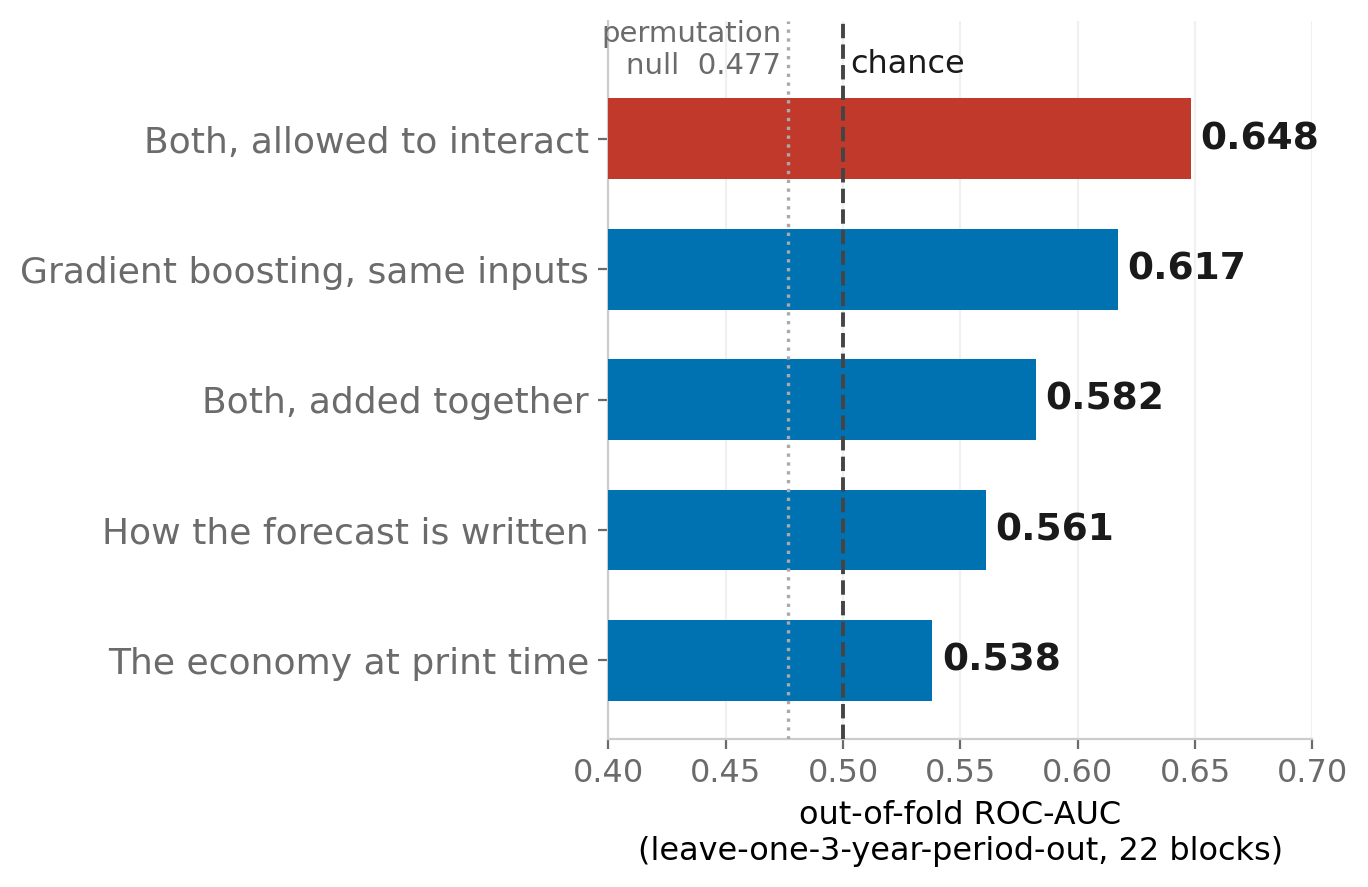
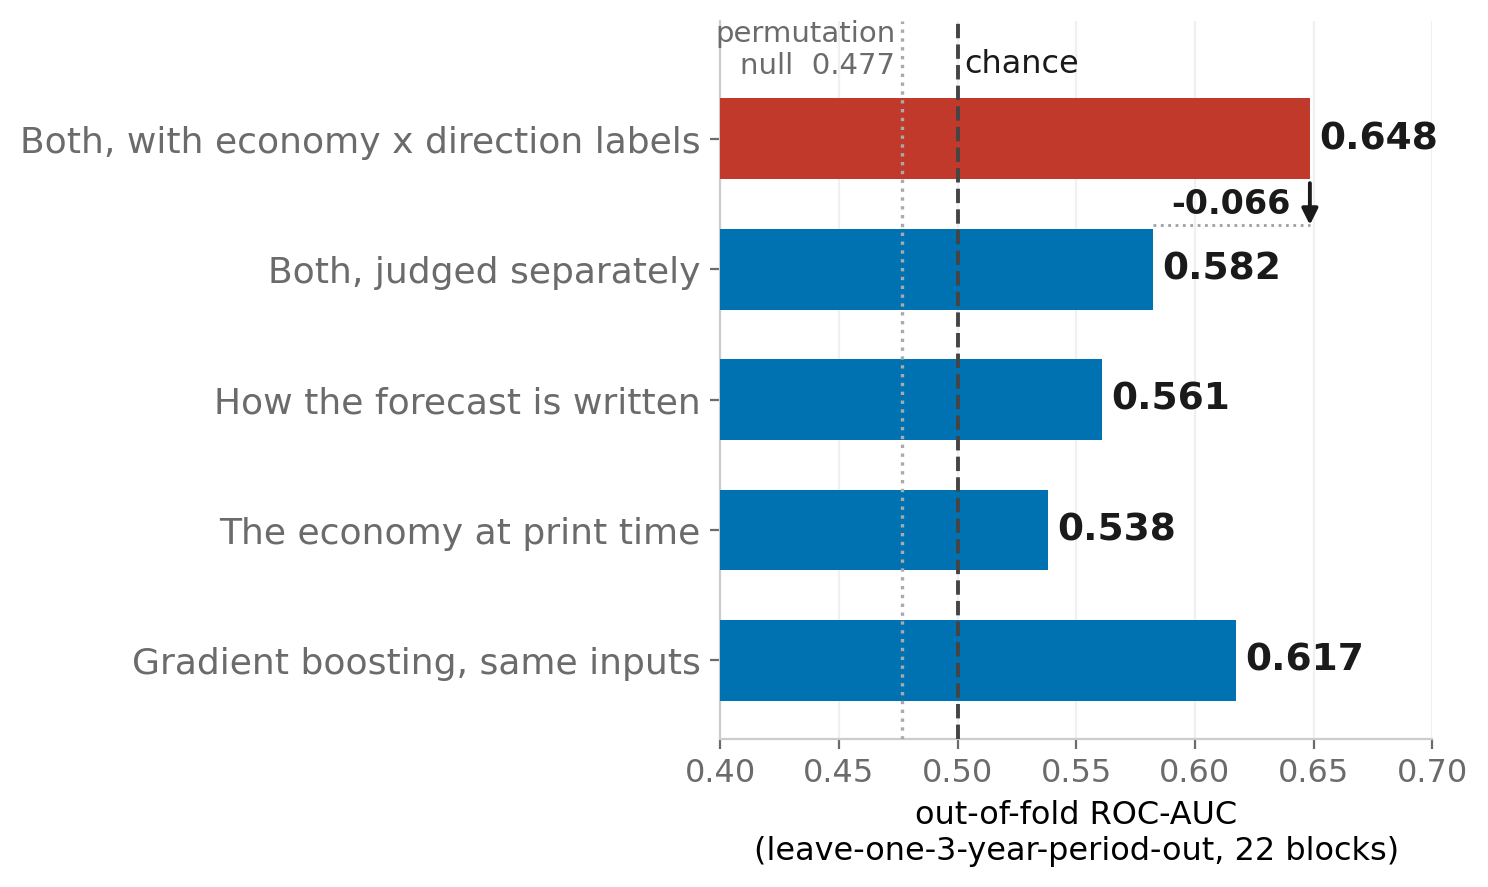
n

diff --git a/src/make_l1_ladder_figure.py b/src/make_l1_ladder_figure.py
@@ -50,9 +50,9 @@ plt.rcParams.update({
 
 LABEL = {"2. claim features only": "How the forecast is written",
          "3. economy only": "The economy at print time",
-         "4. claim + economy (additive)": "Both, added together",
+         "4. claim + economy (additive)": "Both, judged separately",
          "6. gradient boosting (same inputs)": "Gradient boosting, same inputs",
-         "5. + direction x economy": "Both, allowed to interact"}
+         "5. + direction x economy": "Both, with economy x direction labels"}
 
 
 def build():
@@ -123,19 +123,39 @@ def compute(perm):
 
 
 def draw(res):
-    order = ["5. + direction x economy", "6. gradient boosting (same inputs)",
-             "4. claim + economy (additive)", "2. claim features only",
-             "3. economy only"]
+    # The two "Both" rungs sit adjacent so the one comparison this figure
+    # exists to make is read off neighbouring bars; boosting drops to the
+    # bottom because it is the estimator control, not a rung of the ladder.
+    order = ["5. + direction x economy", "4. claim + economy (additive)",
+             "2. claim features only", "3. economy only",
+             "6. gradient boosting (same inputs)"]
     rows = [(LABEL[k], res["ladder"][k]) for k in order if k in res["ladder"]]
 
-    fig, ax = plt.subplots(figsize=(7.0, 4.6))
+    fig, ax = plt.subplots(figsize=(7.6, 4.6))
     y = np.arange(len(rows))[::-1]
+    pos = {}
     for (name, auc), yy in zip(rows, y):
         top = name == LABEL["5. + direction x economy"]
         ax.barh(yy, auc - 0.40, left=0.40, height=.62, zorder=3,
                 color=RED if top else BLUE)
         ax.text(auc + 0.004, yy, f"{auc:.3f}", va="center", fontsize=13.5,
                 fontweight="bold", color=INK)
+        pos[name] = (yy, auc)
+
+    # What the interaction terms are worth: a drop from the red bar's tip to
+    # the additive bar's level, with the gap the additive model never closes.
+    hi, lo = LABEL["5. + direction x economy"], LABEL["4. claim + economy (additive)"]
+    if hi in pos and lo in pos:
+        (y_hi, a_hi), (y_lo, a_lo) = pos[hi], pos[lo]
+        edge = y_lo + .34   # top edge of the lower bar; clears its value label
+        ax.plot([a_lo, a_hi], [edge, edge], color=GRAY, lw=1.0, ls=":",
+                zorder=4)
+        ax.annotate("", xy=(a_hi, edge), xytext=(a_hi, y_hi - .34),
+                    arrowprops=dict(arrowstyle="-|>", color=INK, lw=1.4,
+                                    shrinkA=0, shrinkB=0), zorder=5)
+        ax.text(a_hi - .008, (y_hi - .34 + edge) / 2, f"-{a_hi - a_lo:.3f}",
+                fontsize=12, fontweight="bold", color=INK, ha="right",
+                va="center", zorder=5)
 
     ax.axvline(.5, color="#444444", lw=1.4, ls="--", zorder=4)
     ax.text(.503, len(rows) - .55, "chance", fontsize=11.5, color=INK,
